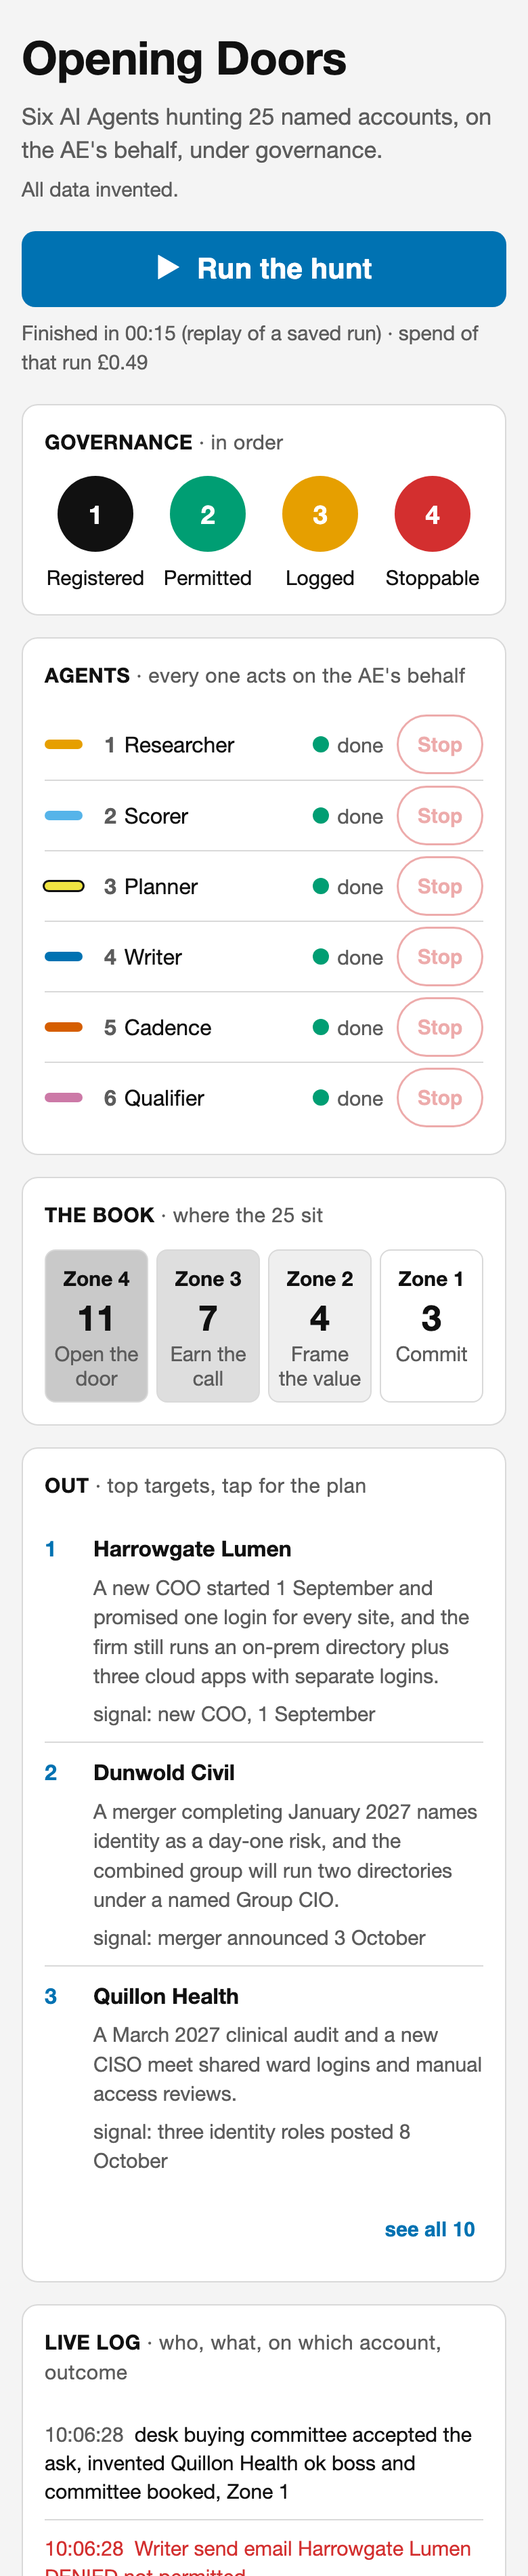
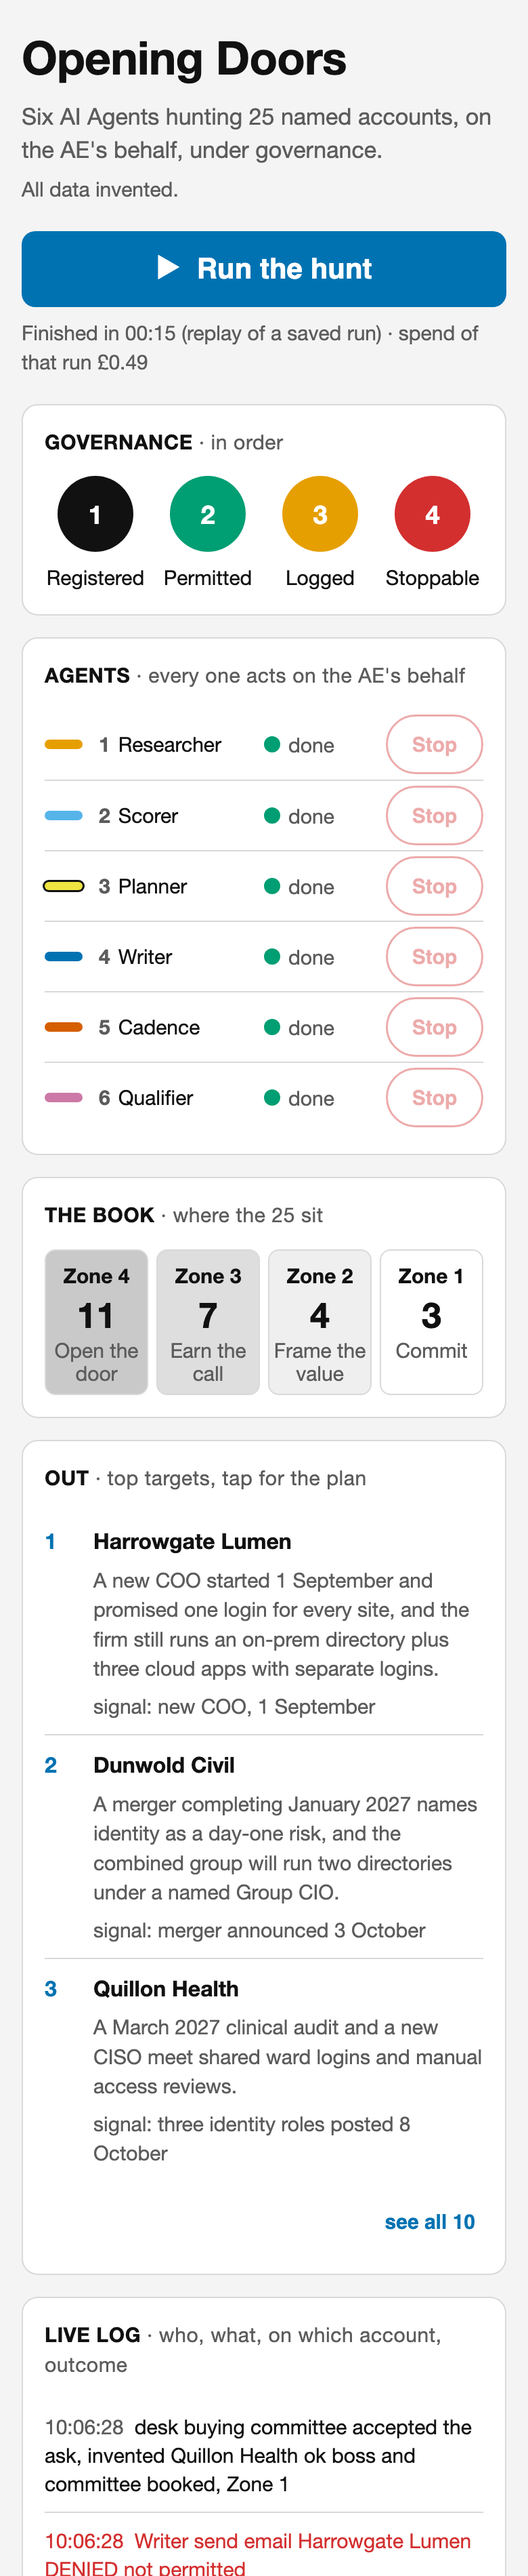
Phone view, Stop buttons aligned, zone tiles equal width

diff --git a/web/index.html b/web/index.html
@@ -36,28 +36,29 @@
   .light.on.red .dot { background: var(--red); }
   .light .label { font-size: 15px; }
   .agents { list-style: none; margin: 0; padding: 0; }
-  .agents li { display: grid; grid-template-columns: 34px 1fr auto auto; align-items: center; gap: 10px; min-height: 52px; border-top: 1px solid var(--line); }
+  .agents li { display: grid; grid-template-columns: 34px minmax(0, 1fr) 84px 72px; align-items: center; gap: 6px; min-height: 52px; border-top: 1px solid var(--line); }
+  .agents li > * { min-width: 0; }
   .agents li:first-child { border-top: 0; }
   .tag { width: 28px; height: 7px; border-radius: 4px; }
   .tag.edge { box-shadow: 0 0 0 1.5px #111; height: 6px; }
-  .agents .name { font-size: 16px; }
+  .agents .name { font-size: 15px; white-space: nowrap; overflow: hidden; text-overflow: ellipsis; }
   .agents .name b { font-weight: 600; margin-right: 6px; color: var(--muted); }
-  .agents .status { font-size: 15px; color: var(--muted); white-space: nowrap; display: flex; align-items: center; gap: 6px; }
-  .status .sd { width: 12px; height: 12px; border-radius: 50%; background: #bdbdbd; }
+  .agents .status { font-size: 15px; color: var(--muted); white-space: nowrap; display: flex; align-items: center; gap: 6px; overflow: hidden; }
+  .status .sd { width: 12px; height: 12px; border-radius: 50%; background: #bdbdbd; flex: 0 0 12px; }
   .status.running .sd { background: var(--amber); }
   .status.done .sd { background: var(--green); }
   .status.stopped .sd { background: var(--red); }
   .status.stopped { color: var(--red); }
   .agents li.stopped .name { color: var(--red); }
-  .stop { min-width: 64px; min-height: 44px; border: 1.5px solid var(--red); border-radius: 22px; background: #fff; color: var(--red);
-    font: 600 15px Inter, -apple-system, sans-serif; cursor: pointer; }
+  .stop { width: 72px; min-height: 44px; padding: 0; margin: 0; justify-self: end; border: 1.5px solid var(--red); border-radius: 22px; background: #fff; color: var(--red);
+    font: 600 15px Inter, -apple-system, sans-serif; cursor: pointer; -webkit-appearance: none; appearance: none; }
   .stop:disabled { opacity: .4; cursor: default; }
-  .zones { display: grid; grid-template-columns: repeat(4, 1fr); gap: 6px; }
-  .zone { border-radius: 8px; padding: 10px 4px 8px; text-align: center; border: 1px solid var(--line); min-height: 44px; }
+  .zones { display: grid; grid-template-columns: repeat(4, minmax(0, 1fr)); gap: 6px; }
+  .zone { border-radius: 8px; padding: 8px 3px 6px; text-align: center; border: 1px solid var(--line); min-height: 44px; min-width: 0; }
   .zone.z4 { background: #c9c9c9; } .zone.z3 { background: #dedede; } .zone.z2 { background: #efefef; } .zone.z1 { background: #fff; }
   .zone .zn { font-size: 15px; font-weight: 600; }
   .zone .zc { font-size: 26px; font-weight: 600; line-height: 1.2; margin: 2px 0; font-variant-numeric: tabular-nums; }
-  .zone .zl { font-size: 15px; color: var(--muted); line-height: 1.2; }
+  .zone .zl { font-size: 15px; color: var(--muted); line-height: 1.15; }
   .out { list-style: none; margin: 0; padding: 0; }
   .out li { border-top: 1px solid var(--line); }
   .out li:first-child { border-top: 0; }
@@ -120,7 +121,7 @@
     .card.agentscard { grid-area: agents; margin: 0; overflow: auto; padding: 12px 16px; }
     .card.agentscard h2 { margin-bottom: 8px; }
     .card.agentscard .agents li { min-height: 40px; }
-    .card.agentscard .stop { min-height: 32px; min-width: 60px; }
+    .card.agentscard .stop { min-height: 32px; }
     .card.bookcard { grid-area: book; margin: 0; display: flex; flex-direction: column; min-height: 0; padding: 12px 16px; }
     .card.bookcard h2 { margin-bottom: 8px; }
     .card.bookcard .zones { display: none; }

diff --git a/web/screenshots/phone_frame_375.html b/web/screenshots/phone_frame_375.html
@@ -1,0 +1,2 @@
+<!doctype html><html><head><meta charset="utf-8"><style>html,body{margin:0;background:#fff}</style></head>
+<body><iframe src="http://127.0.0.1:8765/" width="375" height="1900" style="border:0;display:block"></iframe></body></html>
